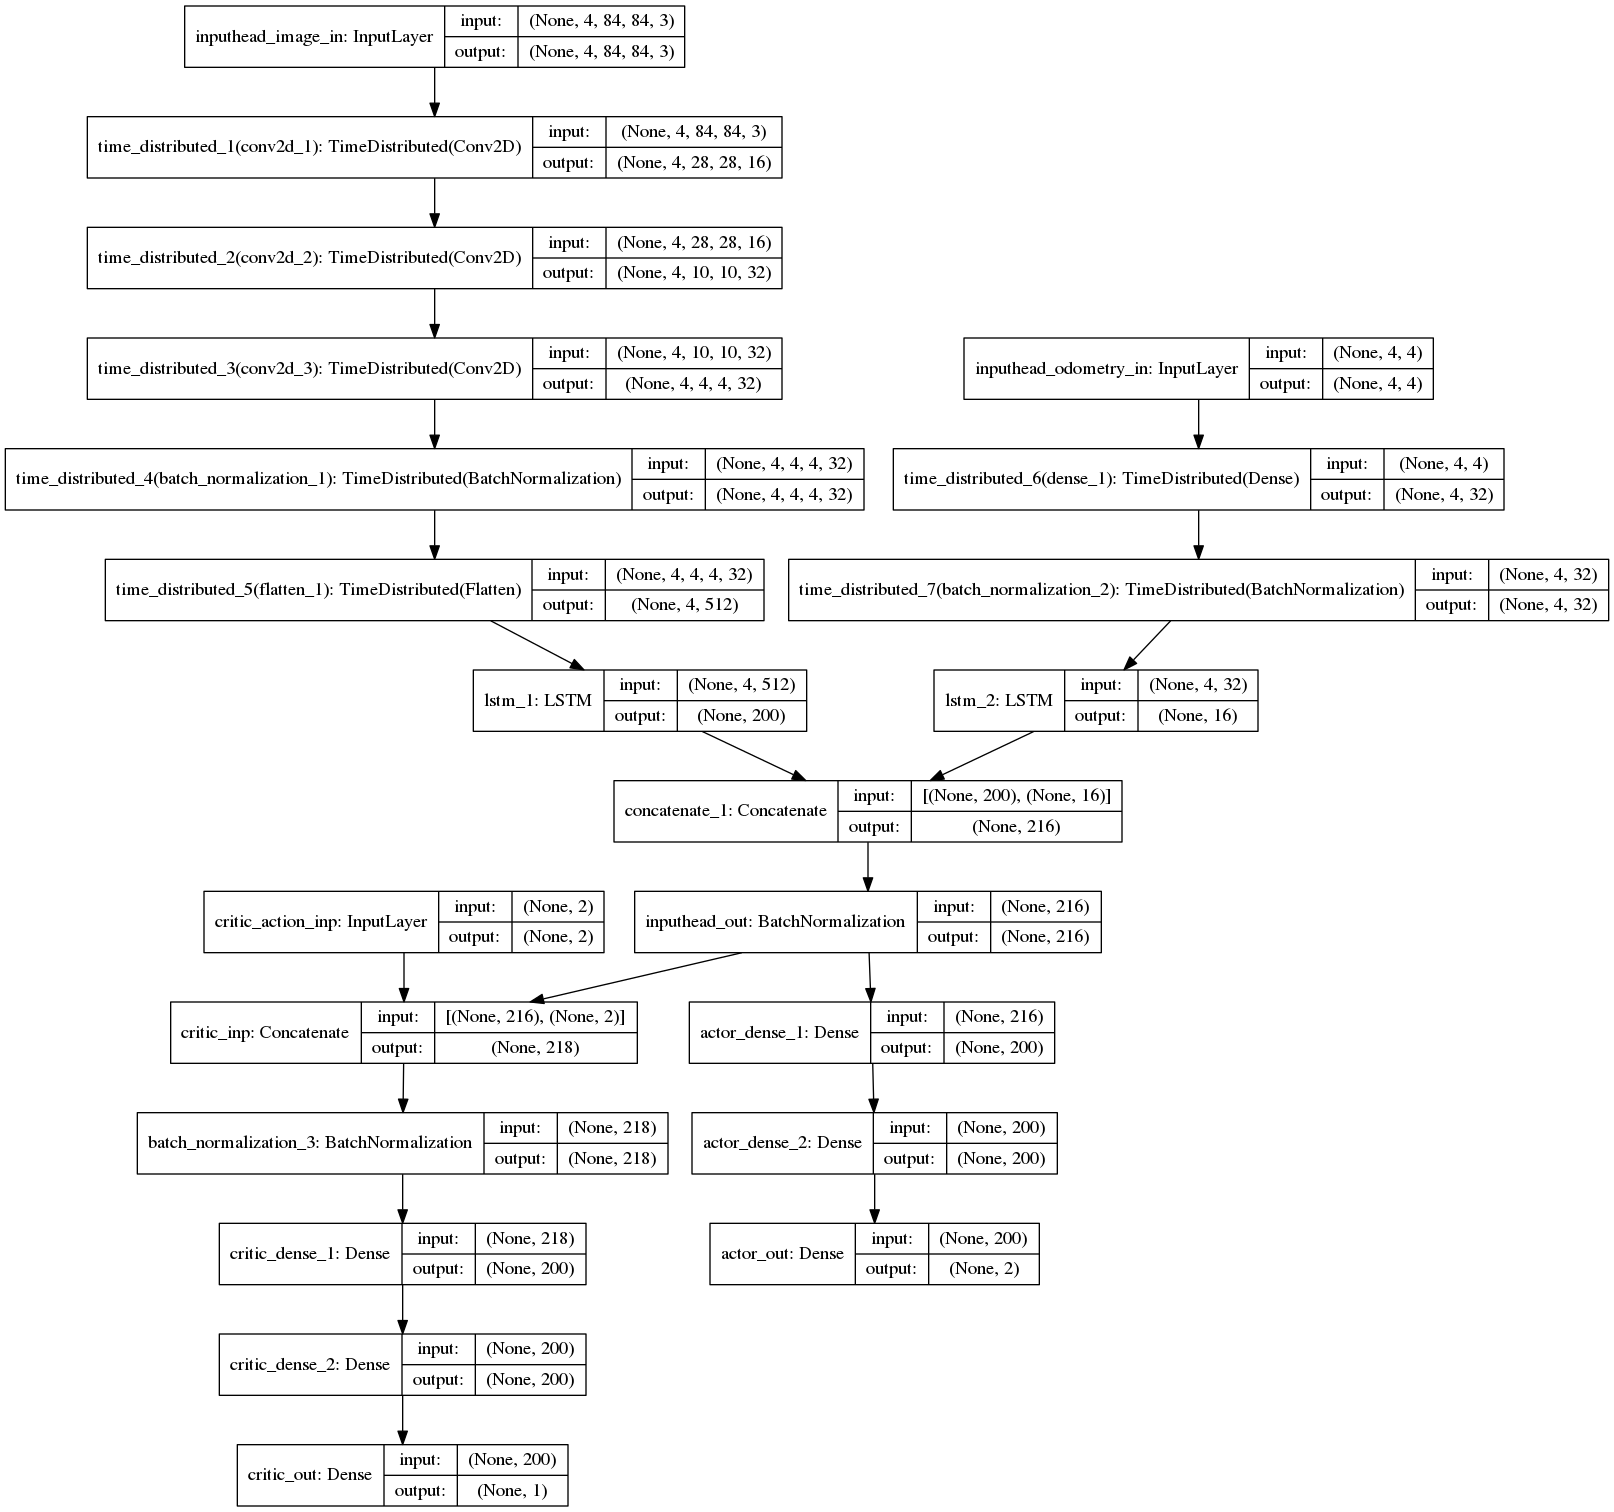
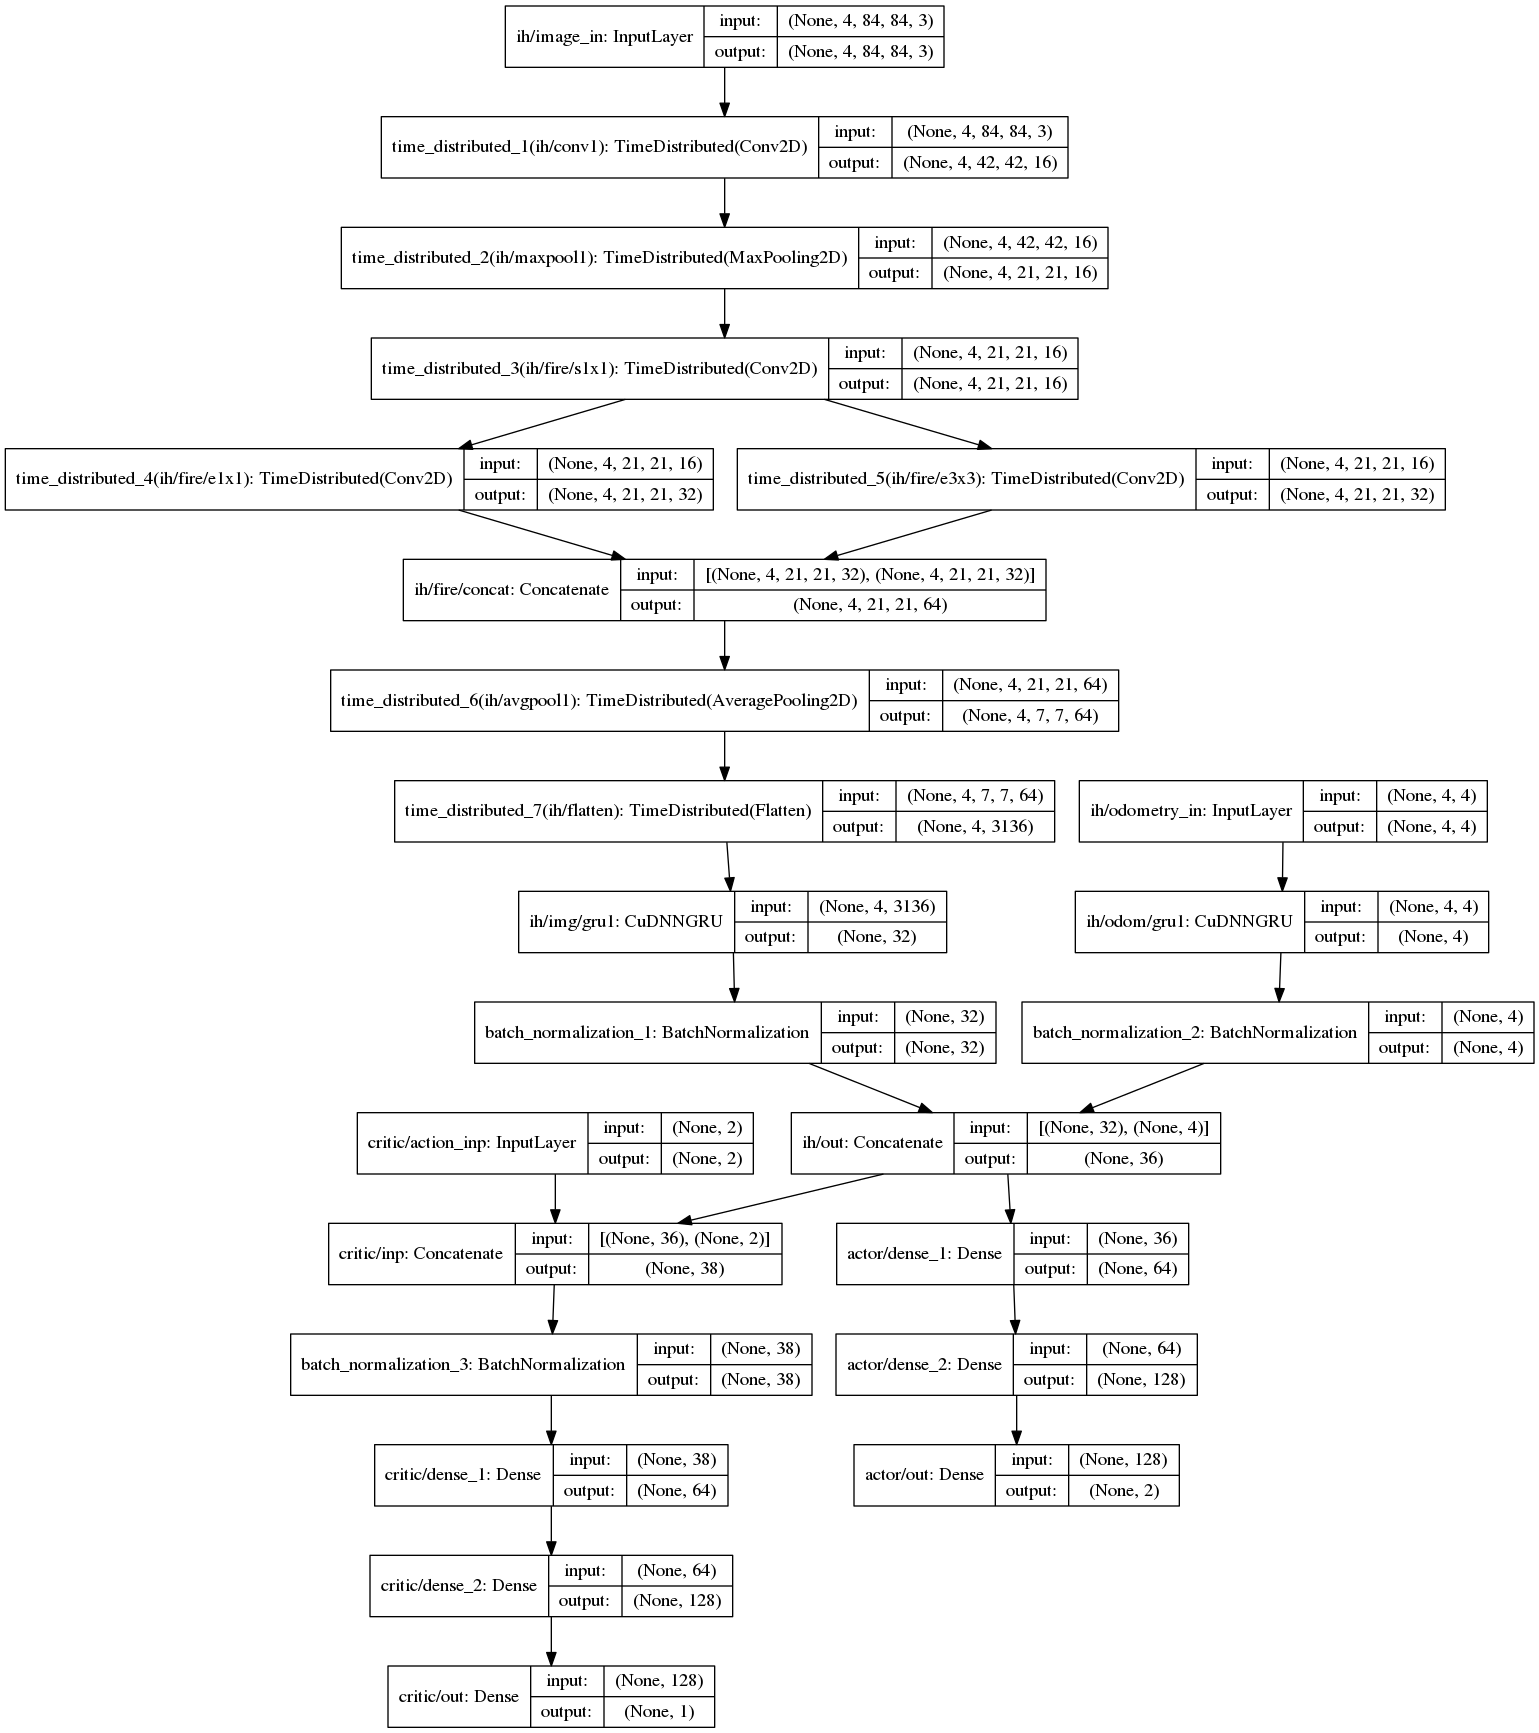
Modified model definition. Added CuDNN cells.

Changed region(s): [[0.0, 0.0, 0.9981, 1.0], [0.1248, 0.6839, 0.1559, 0.7149]]

diff --git a/code/autodrive/models.py b/code/autodrive/models.py
@@ -4,7 +4,9 @@ Last Modified: Sunday December 2nd 2018 10:13:25 am
 Author: ankurrc
 '''
 
-from keras.layers import TimeDistributed, Conv2D, LSTM, Input, BatchNormalization, Flatten, Dense, Concatenate, GRU, AveragePooling2D
+from keras.layers import TimeDistributed, Conv2D, LSTM, Input, \
+                        BatchNormalization, MaxPooling2D, \
+                        Flatten, Dense, Concatenate, GRU, AveragePooling2D, CuDNNGRU
 from keras.initializers import RandomUniform
 from keras.models import Model
 from keras.utils import plot_model
@@ -27,29 +29,35 @@ class Models(object):
 
         layer_prefix = "ih"
         img_ip = Input(shape=(self.window_length,) +
-                       self.image_shape, name="{}_image_in".format(layer_prefix))
+                       self.image_shape, name="{}/image_in".format(layer_prefix))
         odo_ip = Input(shape=(self.window_length,) +
-                       self.odometry_shape, name="{}_odometry_in".format(layer_prefix))
+                       self.odometry_shape, name="{}/odometry_in".format(layer_prefix))
 
         x = TimeDistributed(Conv2D(filters=16, kernel_size=(
-            5, 5), padding="same", strides=3, activation="relu"))(img_ip)
-        x = TimeDistributed(Conv2D(filters=32, kernel_size=(
-            3, 3), padding="same", strides=2, activation="relu"))(x)
-        x = TimeDistributed(Conv2D(filters=32, kernel_size=(
-            3, 3), padding="same", strides=2, activation="relu"))(x)
-        x = TimeDistributed(AveragePooling2D(pool_size=2))(x)
-        x = TimeDistributed(BatchNormalization())(x)
-        x = TimeDistributed(Flatten())(x)
+            5, 5), padding="same", strides=2, activation="relu", name="{}/conv1".format(layer_prefix)))(img_ip)
+        x = TimeDistributed(MaxPooling2D(pool_size=2, name="{}/maxpool1".format(layer_prefix)))(x)
+        s1x1 = TimeDistributed(Conv2D(filters=16, kernel_size=(
+            1, 1), padding="same", strides=1, activation="relu", name="{}/fire/s1x1".format(layer_prefix)))(x)
+        e1x1 = TimeDistributed(Conv2D(filters=32, kernel_size=(
+            1, 1), padding="same", strides=1, activation="relu", name="{}/fire/e1x1".format(layer_prefix)))(s1x1)
+        e3x3 = TimeDistributed(Conv2D(filters=32, kernel_size=(
+            3, 3), padding="same", strides=1, activation="relu", name="{}/fire/e3x3".format(layer_prefix)))(s1x1)
+        x = Concatenate(axis=-1,  name="{}/fire/concat".format(layer_prefix))([e1x1, e3x3])
+        # x = TimeDistributed(Concatenate(axis=-1,  name="{}/fire/concat".format(layer_prefix)))([e1x1, e3x3])
+        x = TimeDistributed(AveragePooling2D(pool_size=3,  name="{}/avgpool1".format(layer_prefix)))(x)
+        x = TimeDistributed(Flatten( name="{}/flatten".format(layer_prefix)))(x)
         # x = LSTM(200, recurrent_dropout=0.2, dropout=0.2)(x)
-        x = GRU(256, recurrent_dropout=0.2, dropout=0.2)(x)
+        x = CuDNNGRU(32,  name="{}/img/gru1".format(layer_prefix))(x)
+        x = BatchNormalization()(x)
 
-        y = TimeDistributed(Dense(32, activation="relu"))(odo_ip)
-        y = TimeDistributed(BatchNormalization())(y)
+        # y = TimeDistributed(Dense(16, activation="relu",  name="{}/fc1".format(layer_prefix)))(odo_ip)
+        # y = TimeDistributed(BatchNormalization())(y)
         # y = LSTM(16, recurrent_dropout=0.2, dropout=0.2)(y)
-        y = GRU(16, recurrent_dropout=0.2, dropout=0.2)(y)
+        y = CuDNNGRU(4,  name="{}/odom/gru1".format(layer_prefix))(odo_ip)
+        y = BatchNormalization()(y)
 
-        op = Concatenate()([x, y])
-        op = BatchNormalization(name="{}_out".format(layer_prefix))(op)
+        op = Concatenate( name="{}/out".format(layer_prefix))([x, y])
+        # op = BatchNormalization(name="{}/out".format(layer_prefix))(op)
 
         return img_ip, odo_ip, op
 
@@ -57,12 +65,12 @@ class Models(object):
 
         layer_prefix = "actor"
 
-        x = Dense(200, activation="relu", name="{}_dense_1".format(
+        x = Dense(64, activation="relu", name="{}/dense_1".format(
             layer_prefix))(self.ih_out)
-        x = Dense(200, activation="relu",
-                  name="{}_dense_2".format(layer_prefix))(x)
+        x = Dense(128, activation="relu",
+                  name="{}/dense_2".format(layer_prefix))(x)
         out = Dense(self.nb_actions, activation="tanh",
-                    kernel_initializer=RandomUniform(minval=-3e-4, maxval=3e-4), name="{}_out".format(layer_prefix))(x)
+                    kernel_initializer=RandomUniform(minval=-3e-4, maxval=3e-4), name="{}/out".format(layer_prefix))(x)
 
         self.actor = Model(
             inputs=[self.ih_odo, self.ih_img], outputs=out, name="actor")
@@ -76,16 +84,16 @@ class Models(object):
         layer_prefix = "critic"
 
         self.action_input = action_input = Input(shape=(self.nb_actions,),
-                                                 name="{}_action_inp".format(layer_prefix))
-        x = Concatenate(name="{}_inp".format(layer_prefix))(
+                                                 name="{}/action_inp".format(layer_prefix))
+        x = Concatenate(name="{}/inp".format(layer_prefix))(
             [self.ih_out, action_input])
         x = BatchNormalization()(x)
-        x = Dense(200, activation="relu", name="{}_dense_1".format(
+        x = Dense(64, activation="relu", name="{}/dense_1".format(
             layer_prefix))(x)
-        x = Dense(200, activation="relu",
-                  name="{}_dense_2".format(layer_prefix))(x)
+        x = Dense(128, activation="relu",
+                  name="{}/dense_2".format(layer_prefix))(x)
         out = Dense(1, activation="linear", kernel_initializer=RandomUniform(
-            minval=-3e-4, maxval=3e-4), name="{}_out".format(layer_prefix), kernel_regularizer=l2(l=0.01))(x)
+            minval=-3e-4, maxval=3e-4), name="{}/out".format(layer_prefix), kernel_regularizer=l2(l=0.01))(x)
 
         self.critic = Model(
             inputs=[self.ih_odo, self.ih_img, action_input], outputs=out, name="critic")
@@ -103,7 +111,7 @@ def main():
 
     model = Model(inputs=[models.ih_odo, models.ih_img, models.action_input],
                   outputs=actor.outputs + critic.outputs)
-    # plot_model(model, to_file="imgs/model.png", show_shapes=True)
+    plot_model(model, to_file="imgs/model.png", show_shapes=True)
     print(model.summary())
 
 

diff --git a/code/autodrive/carla_rl/carla_environment_wrapper.py b/code/autodrive/carla_rl/carla_environment_wrapper.py
@@ -286,10 +286,12 @@ class CarlaEnvironmentWrapper(EnvironmentWrapper):
 			self.reward -= punishment
 
 		# update measurements
-		self.observation = np.hstack(self.location + self.end_loc_measurement + [measurements.player_measurements.acceleration.x,
+		observation_array = [measurements.player_measurements.acceleration.x,
                       measurements.player_measurements.acceleration.y,
 					   measurements.player_measurements.acceleration.z,
-					  measurements.player_measurements.forward_speed])
+					  measurements.player_measurements.forward_speed/self.max_speed]
+		# observation_array += self.location + self.end_loc_measurement
+		self.observation = np.hstack(observation_array)
 
 		if self.rgb_camera:
 			img_data = sensor_data[self.rgb_camera_name].data/255.

diff --git a/code/autodrive/run_experiment.py b/code/autodrive/run_experiment.py
@@ -147,3 +147,4 @@ while True:
         pickle.dump(agent.step, open("steps.pkl", "wb"))
         print("..done")
         # env.close_client_and_server()
+        exit(1)
